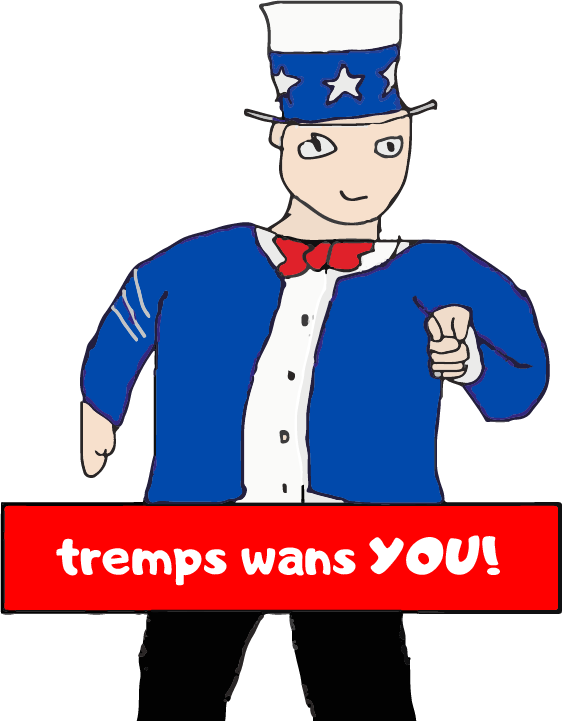
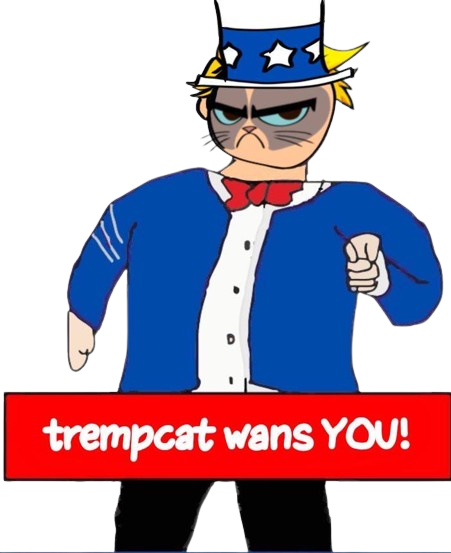
Add files via upload

Changed region(s): [[0.0, 0.0, 1.0, 1.0], [0.9002, 0.4611, 0.9933, 0.5533], [0.4656, 0.4304, 0.4967, 0.4919]]

diff --git a/index.html b/index.html
@@ -110,7 +110,7 @@
               tremp cat
             </div>
             <div class="maek text-[26px] lg:text-[60px]">
-              mek $tREMPCAT greter
+              mek cats gret agen
             </div>
             <div class="year mt-8 lg:mt-0">2024</div>
           </div>
@@ -169,15 +169,14 @@
             <div class="about-text">about</div>
             <div class="flex flex-col gap-5 px-5">
               <div class="about-des">
-                $TREMPCAT iz her to mek $TREMPCAT greater. iz a komyunity dat
-                missed $TREMPCAT nd giben anawder chans to mek bellions n
-                bellions.
+                $TREMPCAT iz her to mek cats gret agen. iz a komyunity dat
+                missed $tremp nd giben anawder chans to mek bellions n bellions.
               </div>
               <div class="about-des">
-                It supports $TREMPCAT vision to mek memes gret agen n destroy
-                joe boiden. $TREMPCAT join $TREMPCAT to unite al ze Solanu memes
-                än suport eech othr thru ze Ber an ze Bull. Mak sur tö kast yur
-                vote for Tremp 2024!
+                It supports the vision to mek memes gret agen. $TREMPCAT iz here
+                to unite al ze Solanu memes än suport its daddy doland tremp.
+                Mak sur tö kast yur vote for Tremp 2024 n dont porget 2 feed ze
+                cat!
               </div>
             </div>
           </div>
@@ -219,7 +218,7 @@
               </div>
             </div>
             <div class="flex flex-col gap-3">
-              <div class="title">TREMP</div>
+              <div class="title">TREMPCAT</div>
               <div class="des">
                 Switch SOL for $TREMPCAT. We have Zero taxes so you don’t need
                 to worry about buying with a specific slippage, although you may
@@ -232,7 +231,7 @@
             class="absolute hidden lg:block top-10 right-0"
           /><img
             alt="universe"
-            src="/_next/static/media/universe.70c82529.png"
+            src="/_next/static/media/l_logo.e6bdfc58.png"
             class="lg:absolute -bottom-16 right-0"
           />
         </div>
